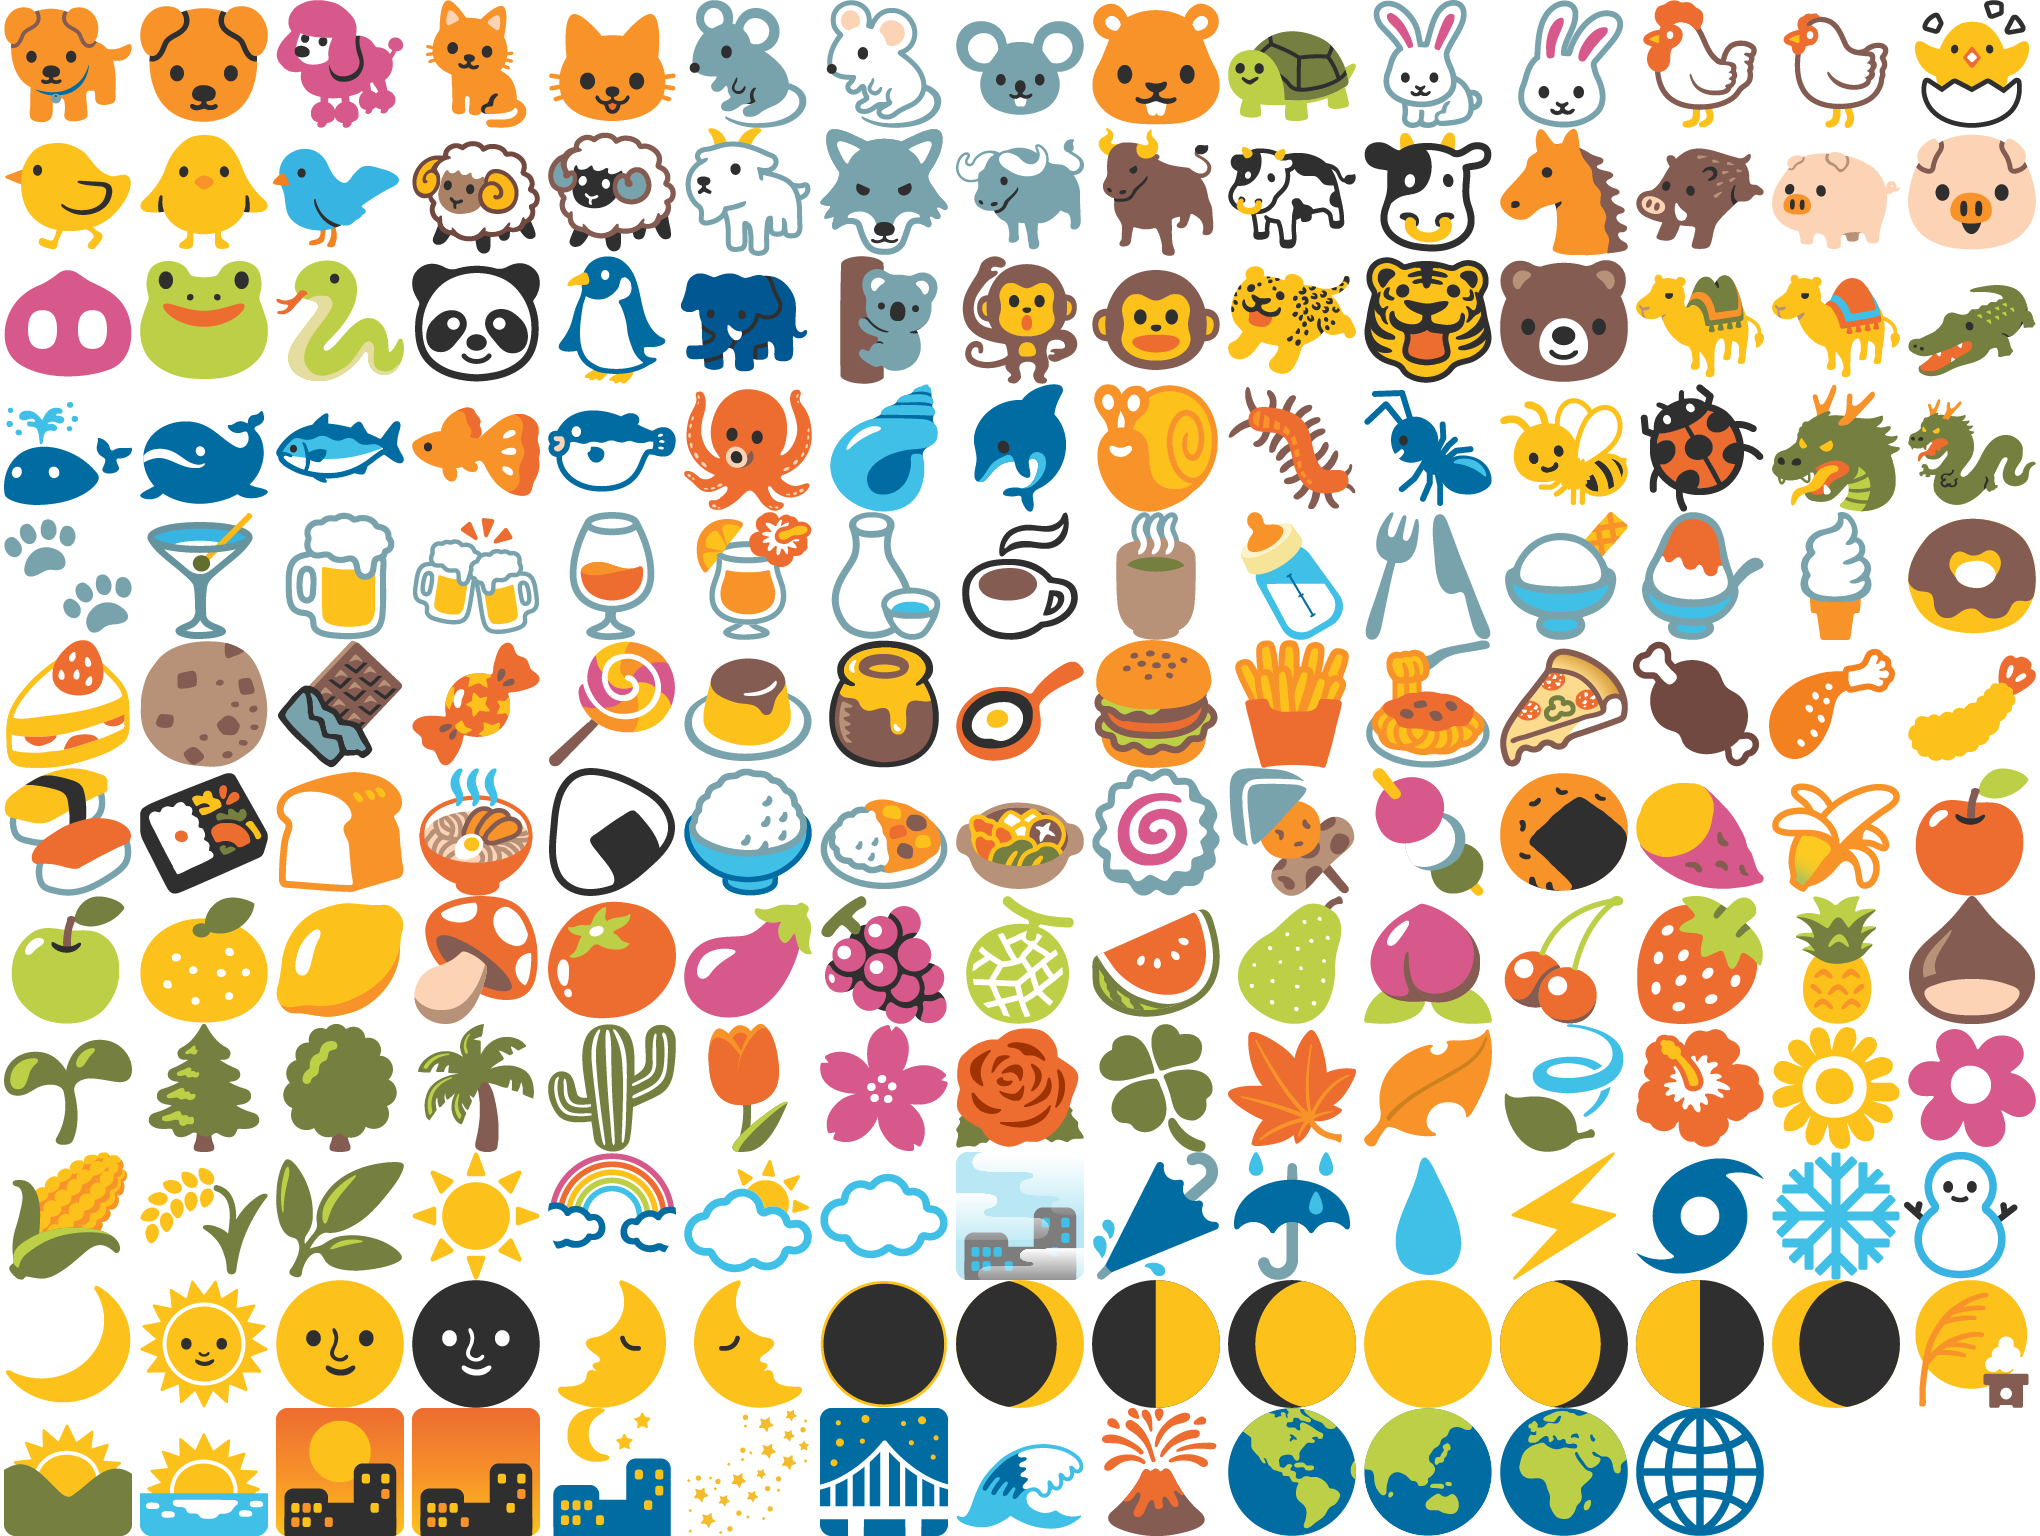
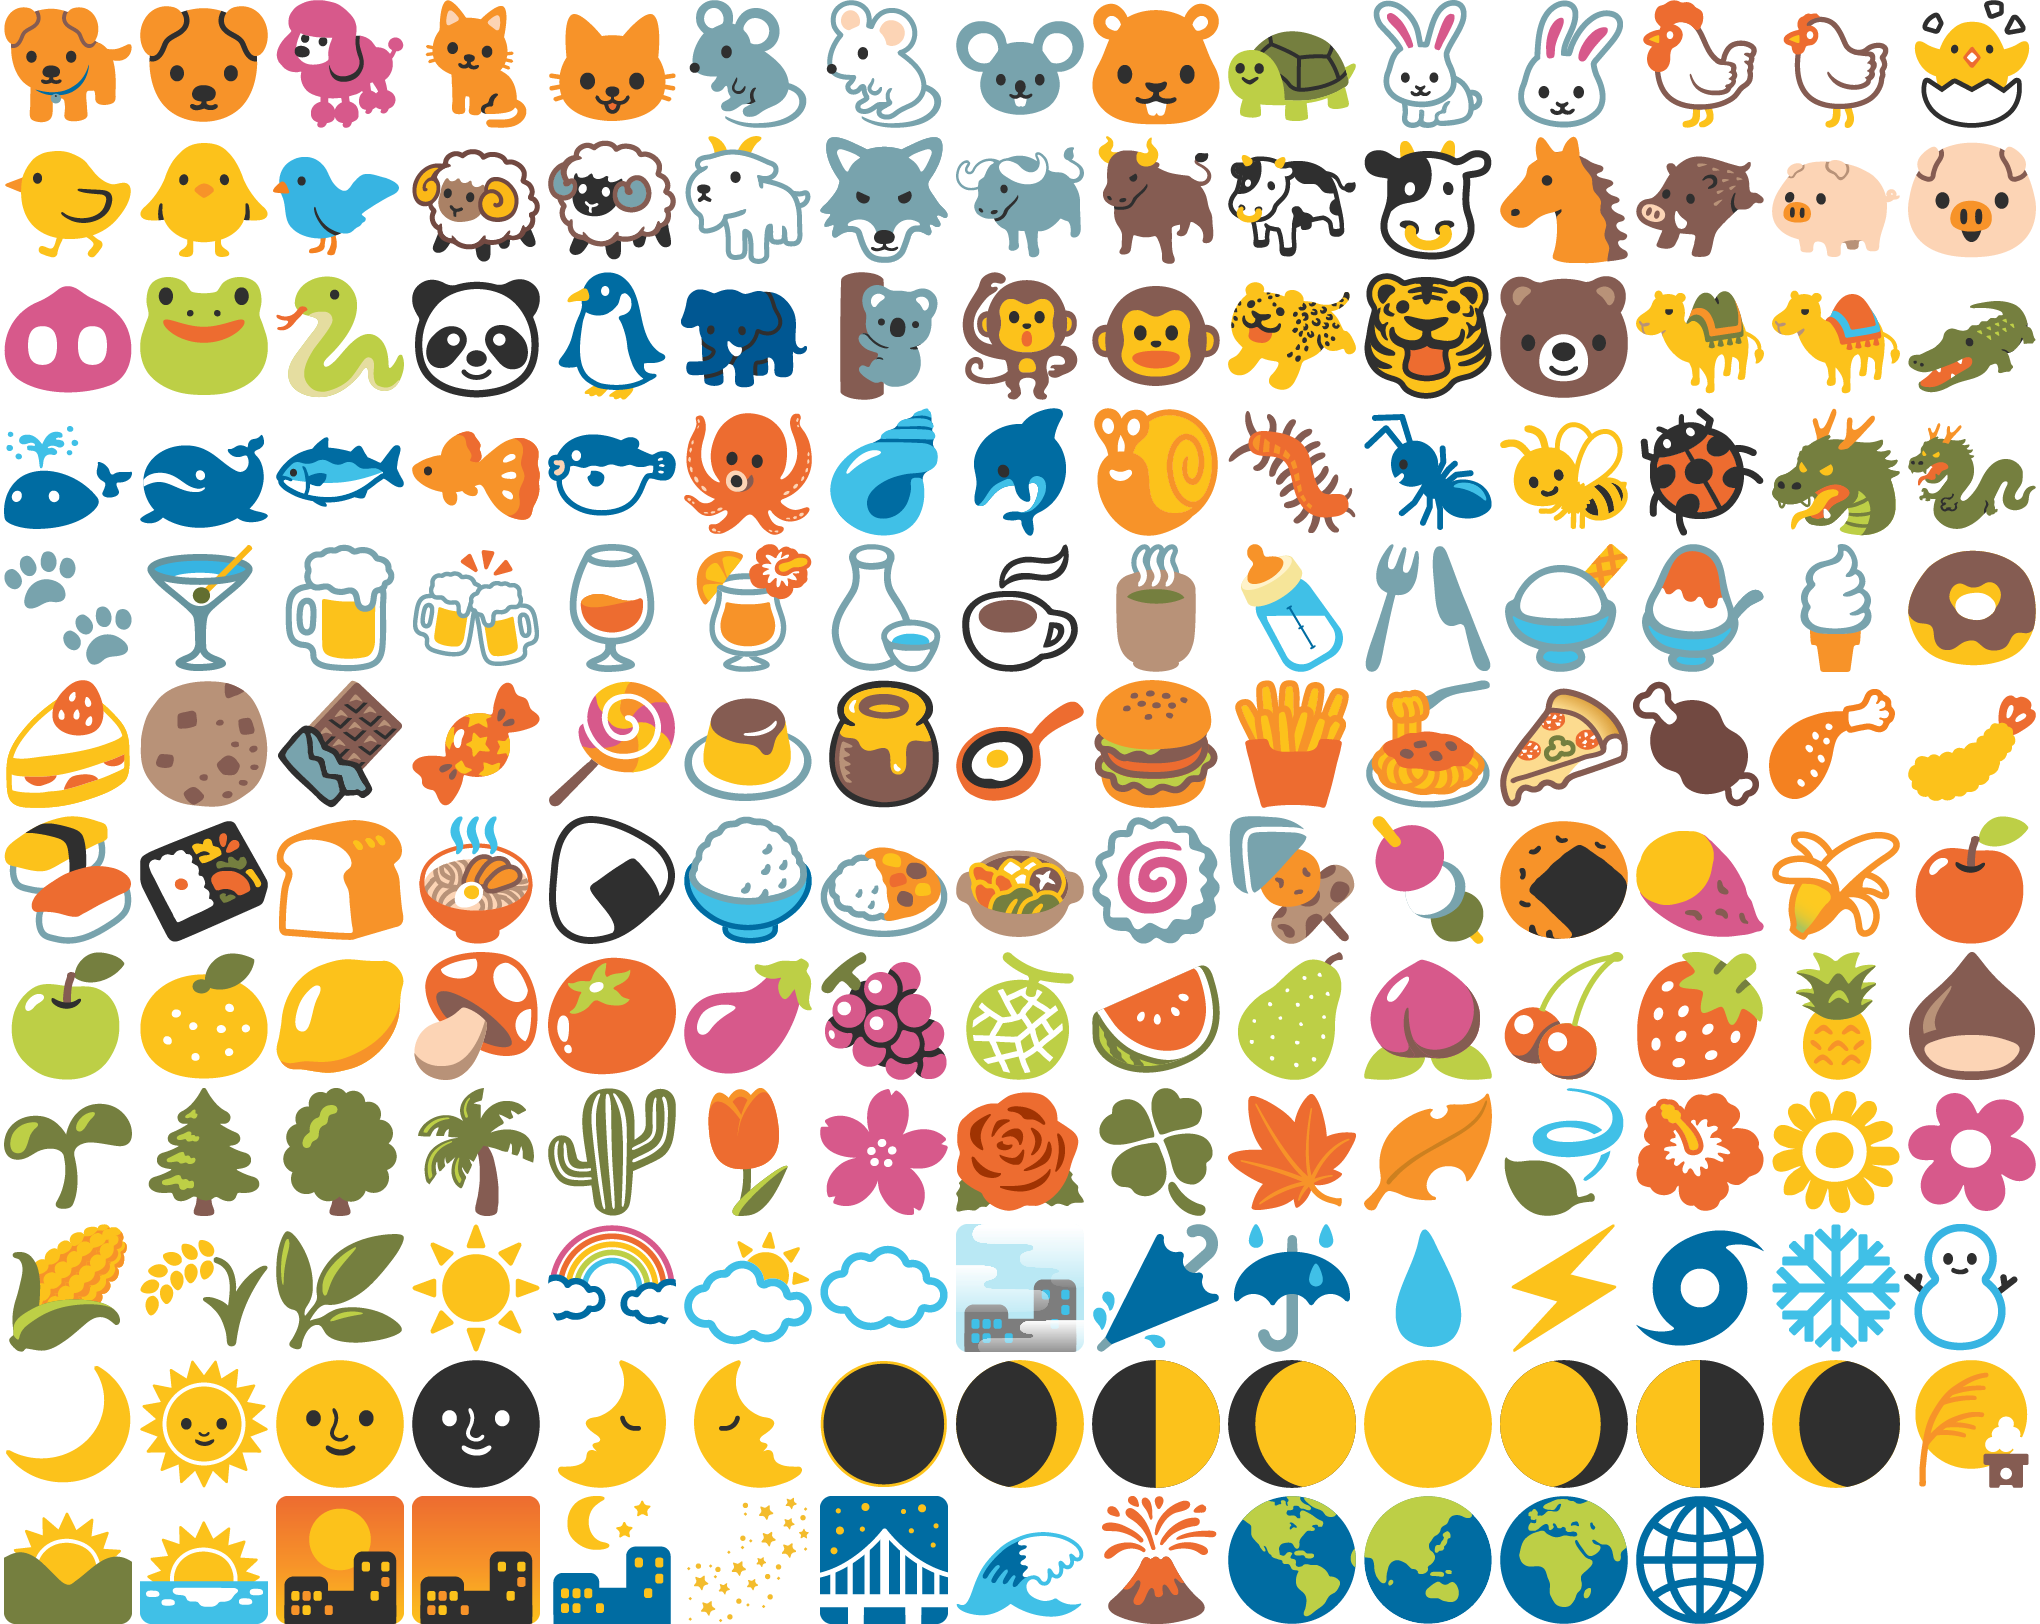
Add vertical spacing to emoji sprites

diff --git a/app/src/main/java/com/openchat/secureim/components/emoji/EmojiProvider.java b/app/src/main/java/com/openchat/secureim/components/emoji/EmojiProvider.java
@@ -48,11 +48,13 @@ public class EmojiProvider {
   public static final double EMOJI_SMALL      = 0.50;
   public static final int    EMOJI_RAW_HEIGHT = 128;
   public static final int    EMOJI_RAW_WIDTH  = 136;
+  public static final int    EMOJI_VERT_PAD   = 8;
   public static final int    EMOJI_PER_ROW    = 15;
 
   private final Context context;
   private final double  drawWidth;
   private final double  drawHeight;
+  private final double  verticalPad;
   private final Handler handler = new Handler(Looper.getMainLooper());
 
   public static EmojiProvider getInstance(Context context) {
@@ -69,9 +71,10 @@ public class EmojiProvider {
   private EmojiProvider(Context context) {
     int[] pages = ResUtil.getResourceIds(context, R.array.emoji_categories);
 
-    this.context    = context.getApplicationContext();
-    this.drawHeight = context.getResources().getDimension(R.dimen.emoji_drawer_size);
-    this.drawWidth  = drawHeight * ((double)EMOJI_RAW_WIDTH) / EMOJI_RAW_HEIGHT;
+    this.context     = context.getApplicationContext();
+    this.drawHeight  = context.getResources().getDimension(R.dimen.emoji_drawer_size);
+    this.drawWidth   = drawHeight * ((double)EMOJI_RAW_WIDTH) / EMOJI_RAW_HEIGHT;
+    this.verticalPad = EMOJI_VERT_PAD * drawHeight / EMOJI_RAW_HEIGHT;
     Log.w(TAG, "draw size: " + drawWidth + "x" + drawHeight);
     for (int i = 0; i < pages.length; i++) {
       final EmojiPageBitmap page = new EmojiPageBitmap(i);
@@ -154,9 +157,9 @@ public class EmojiProvider {
 
       canvas.drawBitmap(bmp,
                         new Rect((int)(row_index * width),
-                                 (int)(row * height),
+                                 (int)(row * height + row * verticalPad),
                                  (int)((row_index + 1) * width),
-                                 (int)((row + 1) * height)),
+                                 (int)((row + 1) * height + row * verticalPad)),
                         b,
                         paint);
     }
